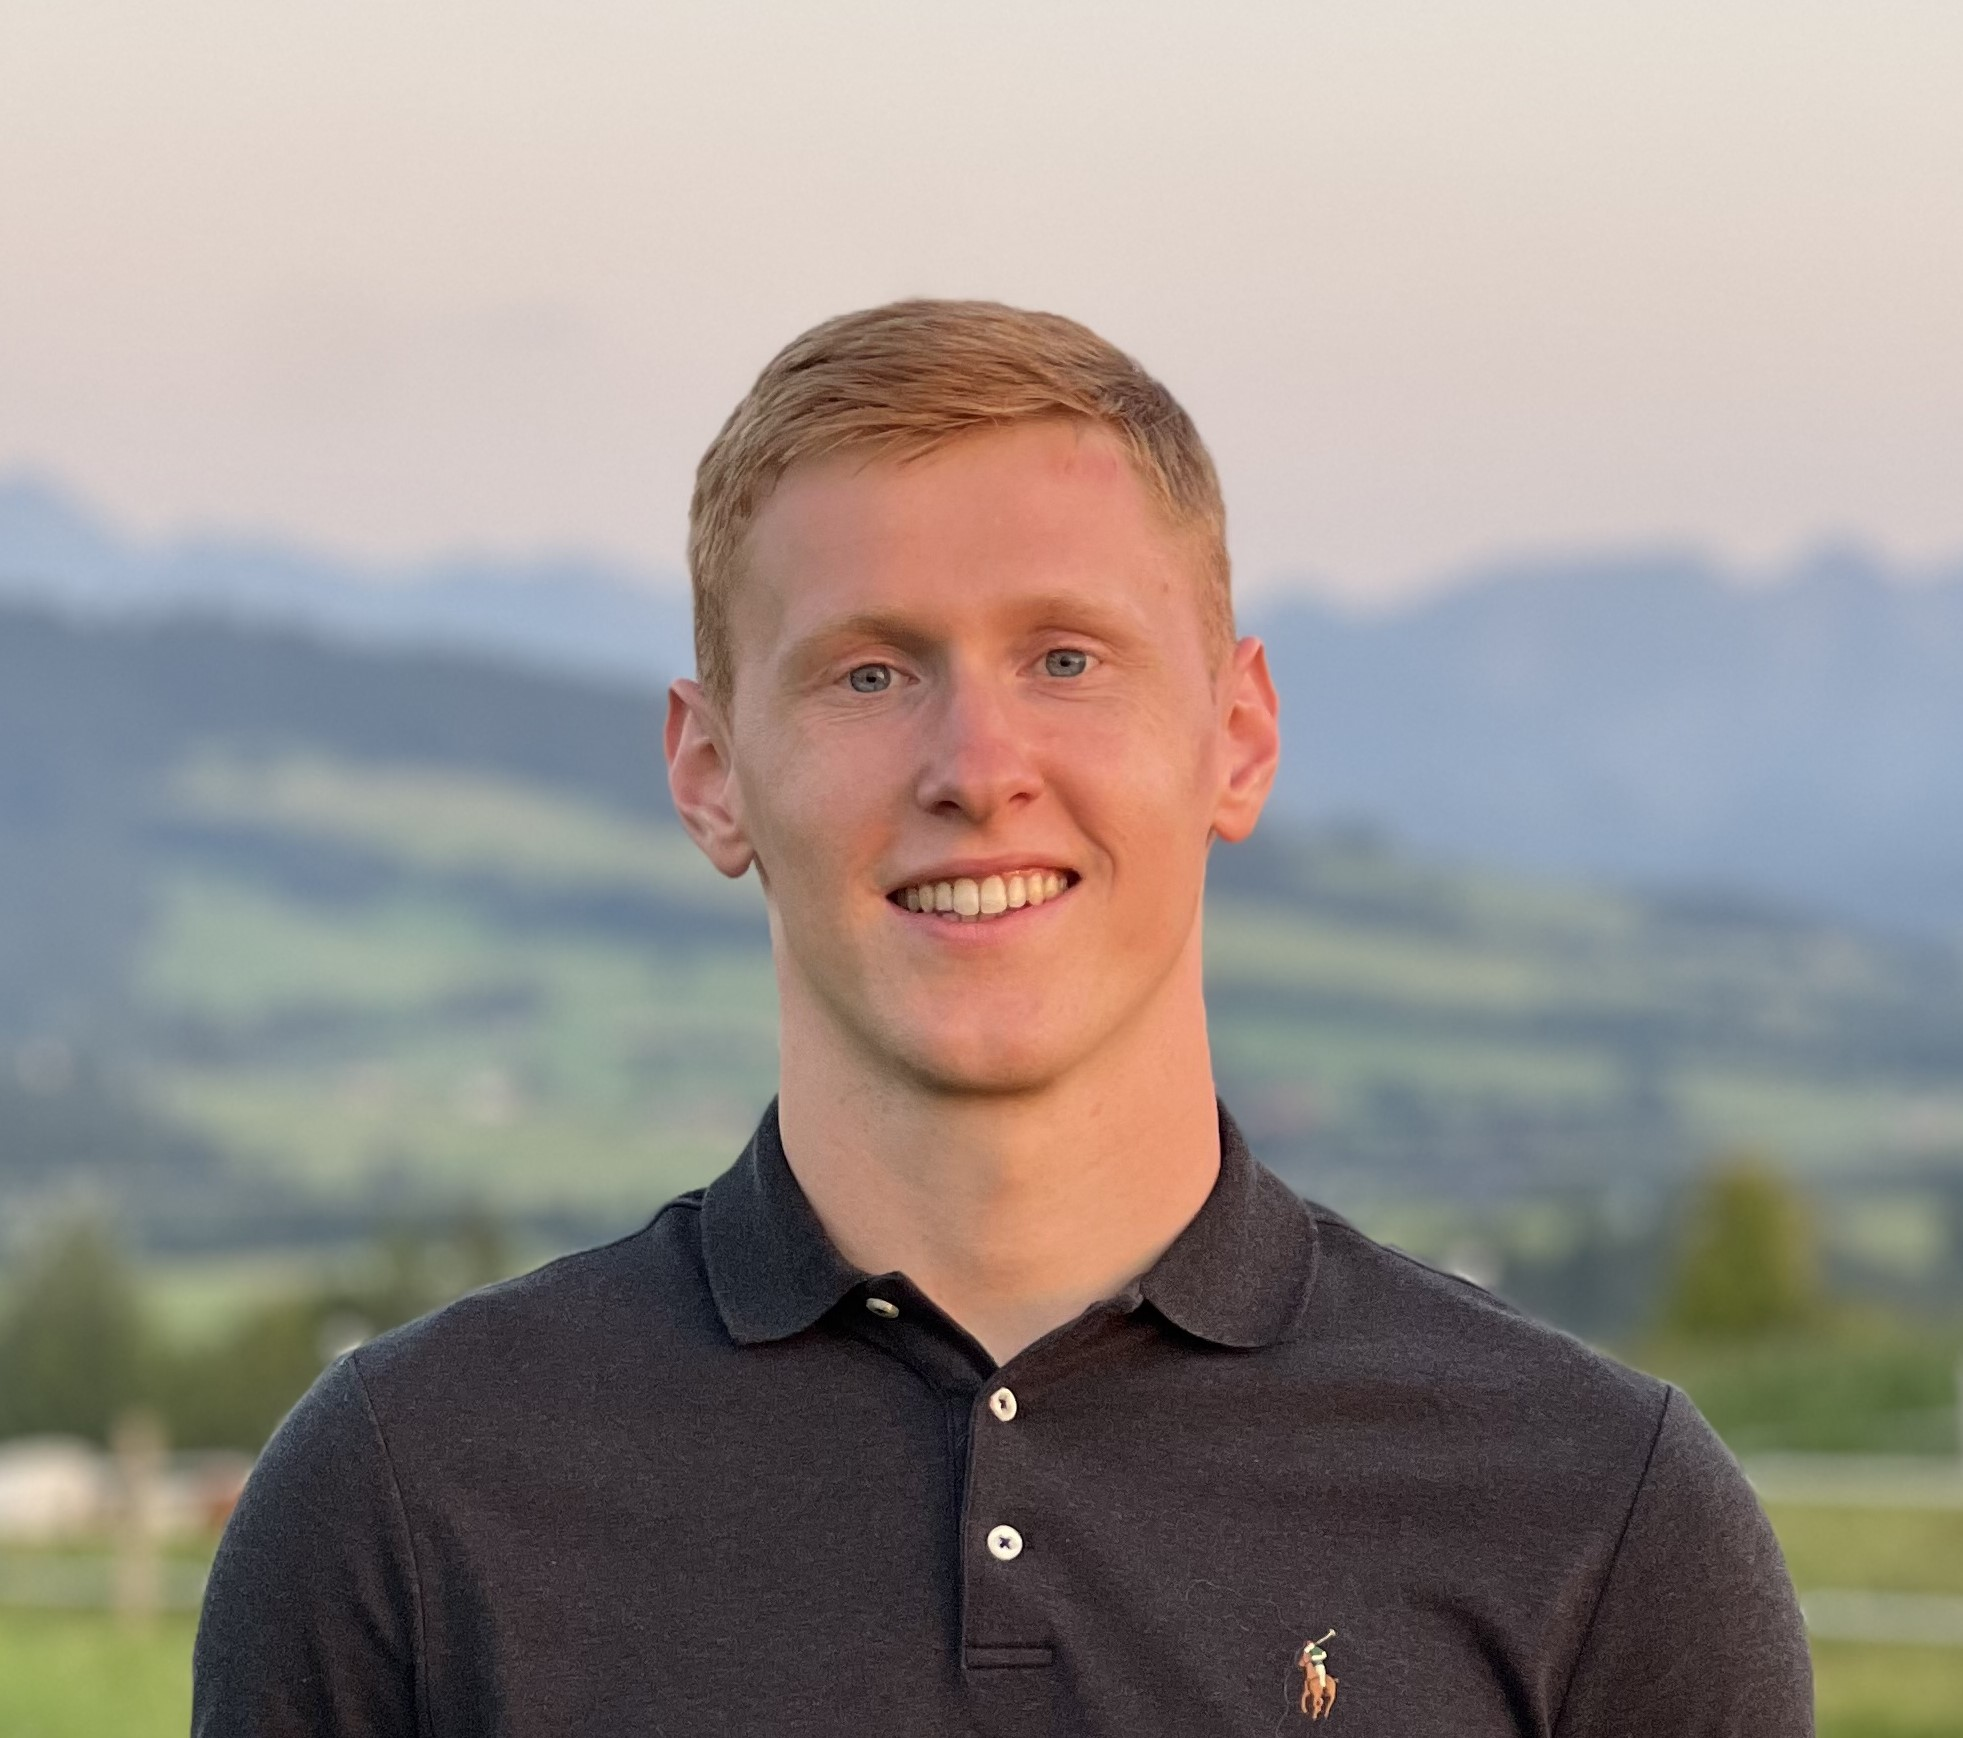
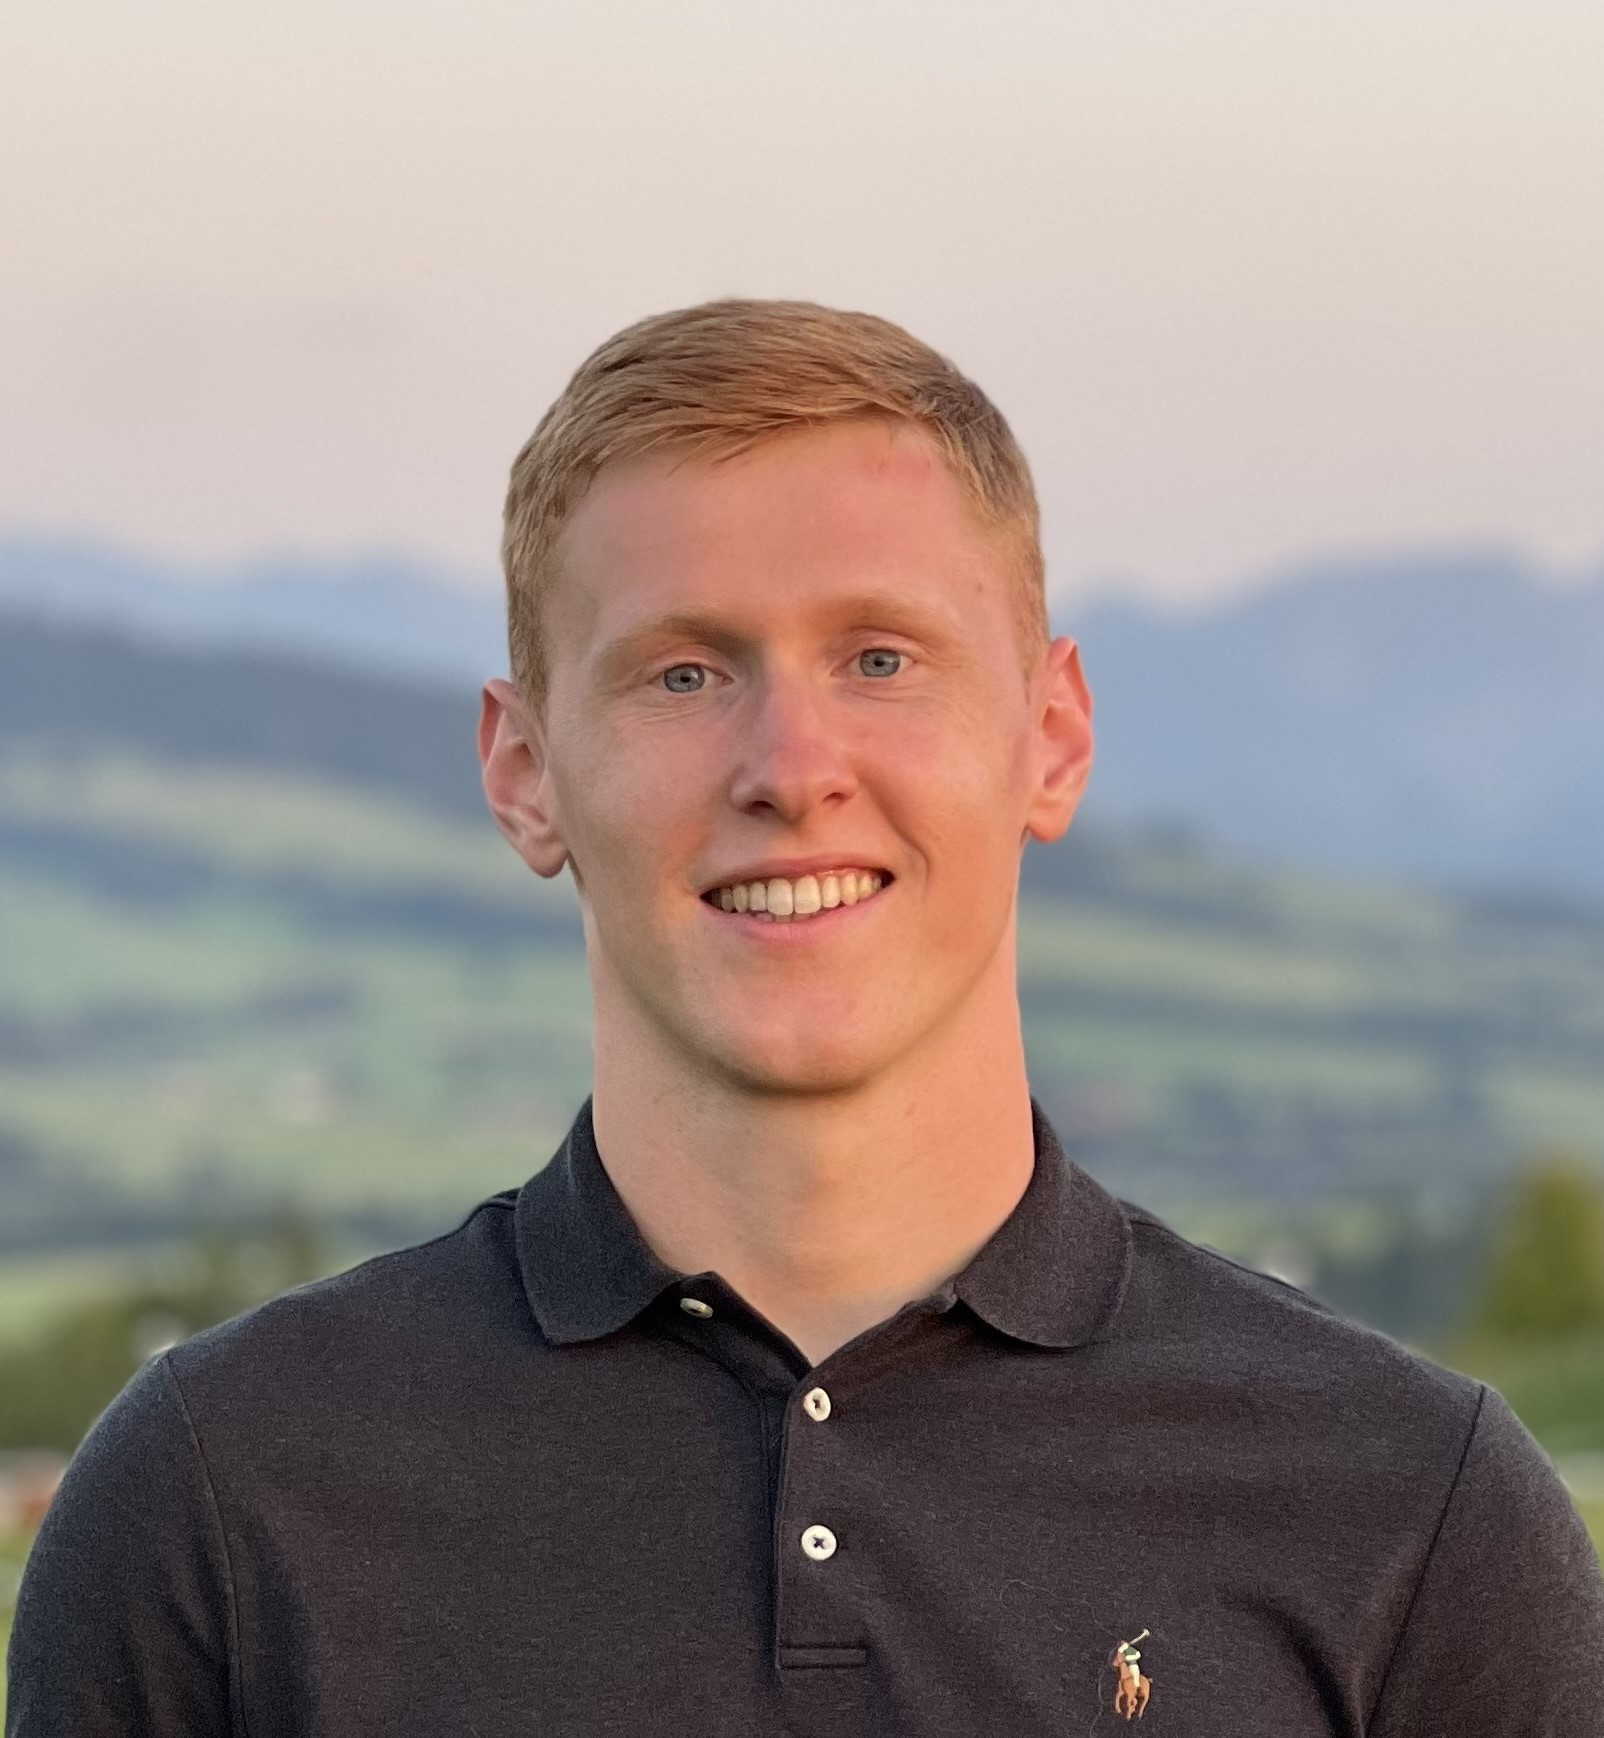
Add about and trim bib

diff --git a/_pages/about.md b/_pages/about.md
@@ -25,6 +25,6 @@ latest_posts:
   limit: 3 # leave blank to include all the blog posts
 ---
 
-I am a first-year PhD student in the Mechanical Engineering department at the Massachusetts Institute of Technology (MIT) advised by Professor Jean-Jacques Slotine. My research interests lie at the intersection of control theory, optimization, and learning with a desire to find provable performance guarantees for real-world safety-critical autonomous systems. Prior to MIT, I received my Bachelor of Science from the University of Illinois at Urbana-Champaign and my Master of Science from the University of California, Berkeley. In between Berkeley and MIT, I spent a short but exciting period of time working at [Red Bull Powertrains](https://www.redbullpowertrains.com/int-en), the first-ever endeavor from the Red Bull Formula 1 team to build its own powertrain for the highest level of motorsport in the world. 
+I am a first-year PhD student in the Mechanical Engineering department at the Massachusetts Institute of Technology (MIT) advised by Professor Jean-Jacques Slotine. My research interests lie at the intersection of control theory, optimization, and learning with a desire to find provable performance guarantees for real-world safety-critical autonomous systems.
 
-Put your address / P.O. box / other info right below your picture. You can also disable any of these elements by editing `profile` property of the YAML header of your `_pages/about.md`. Edit `_bibliography/papers.bib` and Jekyll will render your [publications page](/al-folio/publications/) automatically.
+Prior to MIT, I received my Bachelor of Science from the University of Illinois at Urbana-Champaign and my Master of Science from the University of California, Berkeley. In between Berkeley and MIT, I spent a short but exciting period of time working at [Red Bull Powertrains](https://www.redbullpowertrains.com/int-en), the first-ever endeavor from the Red Bull Formula 1 team to build its own powertrain for the highest level of motorsport in the world.

diff --git a/_news/announcement_3.md b/_news/announcement_3.md
@@ -1,8 +1,8 @@
 ---
 layout: post
-date: 2025-09-03 08:00:00-0400
+date: 2025-01-28 08:00:00-0400
 inline: true
 related_posts: false
 ---
 
-Today marks t=0 for my PhD journey!
+I visited the Systems Control and Optimization Laboratory (SYSCOP) in Freiburg, Germany led by Professor Moritz Diehl and gave a talk on my Master's research.

diff --git a/_news/announcement_2.md b/_news/announcement_2.md
@@ -1,8 +1,8 @@
 ---
 layout: post
-date: 2025-08-08 08:00:00-0400
+date: 2024-09-18 08:00:00-0400
 inline: true
 related_posts: false
 ---
 
-As I embark upon a return to academia, today is my final day of employment with Red Bull Powertrains.
+I attended the IAV Conference on Ignition Systems for Gasoline Engines in Berlin, Germany.

diff --git a/_news/announcement_4.md b/_news/announcement_4.md
@@ -1,0 +1,8 @@
+---
+layout: post
+date: 2025-08-08 08:00:00-0400
+inline: true
+related_posts: false
+---
+
+As I embark upon a return to academia, today is my final day of employment with Red Bull Powertrains.

diff --git a/_news/announcement_5.md b/_news/announcement_5.md
@@ -1,0 +1,8 @@
+---
+layout: post
+date: 2025-09-03 08:00:00-0400
+inline: true
+related_posts: false
+---
+
+Today marks t=0 for my PhD journey!
